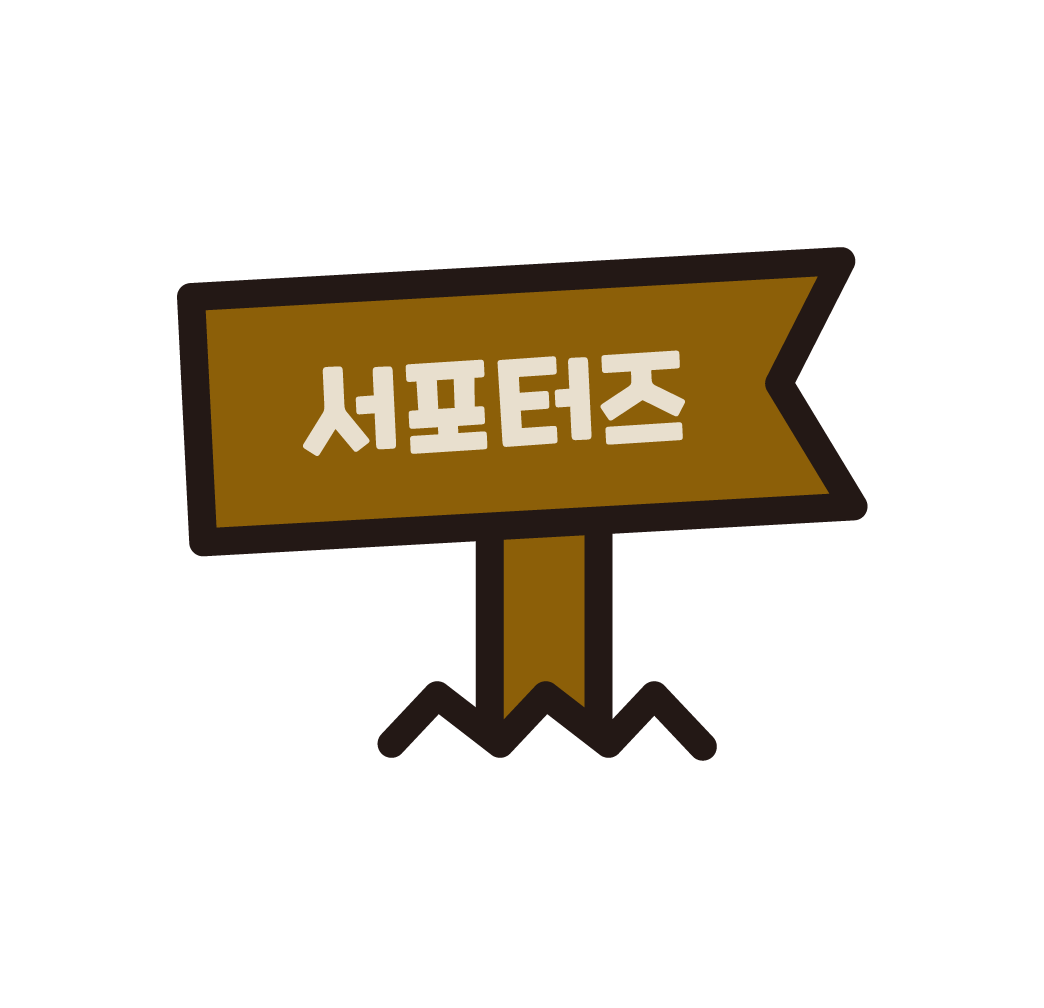
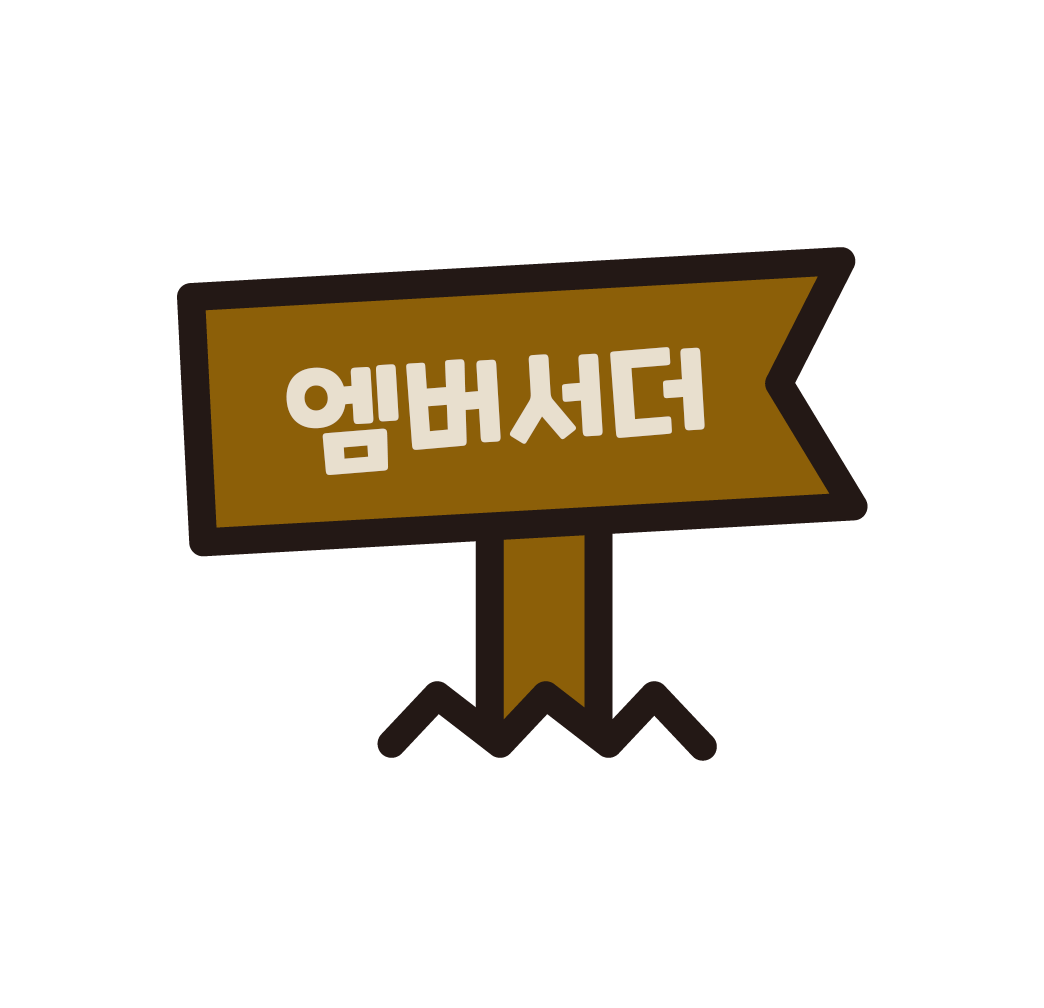
📝 Edit: 서포터즈 -> 엠버서더 링크 변경

Changed region(s): [[0.2759, 0.3383, 0.6743, 0.4921]]

diff --git a/index.html b/index.html
@@ -1,5 +1,6 @@
 <!DOCTYPE html>
 <html lang="ko">
+
 <head>
   <meta charset="utf-8">
   <meta name="viewport" content="width=device-width, initial-scale=1">
@@ -14,7 +15,8 @@
   <meta property="og:url" content="http://paullab.co.kr">
   <!-- favicon -->
   <link rel="shortcut icon" type="image/x-icon" href="favicon.ico">
-  <link rel="stylesheet" type="text/css" href="https://pro.fontawesome.com/releases/v5.10.0/css/all.css" integrity="sha384-AYmEC3Yw5cVb3ZcuHtOA93w35dYTsvhLPVnYs9eStHfGJvOvKxVfELGroGkvsg+p" crossorigin="anonymous">
+  <link rel="stylesheet" type="text/css" href="https://pro.fontawesome.com/releases/v5.10.0/css/all.css"
+    integrity="sha384-AYmEC3Yw5cVb3ZcuHtOA93w35dYTsvhLPVnYs9eStHfGJvOvKxVfELGroGkvsg+p" crossorigin="anonymous">
   <link rel="stylesheet" type="text/css" href="https://fonts.googleapis.com/css2?family=Nanum+Gothic&display=swap">
   <link rel="stylesheet" type="text/css" href="css/reset.css">
   <link rel="stylesheet" type="text/css" href="css/style.css">
@@ -166,8 +168,8 @@
         <!-- //hallabongTree -->
         <!-- supporters -->
         <div class="supporters">
-          <a href="supporters_page/home.html" target="_blank">
-            <img src="images/menu_supporters.png" alt="메뉴_서포터즈" />
+          <a href="https://ambassador.weniv.co.kr/" target="_blank">
+            <img src="images/menu_supporters.png" alt="메뉴_엠버서더" />
           </a>
         </div>
         <!-- //supporters -->
@@ -194,10 +196,12 @@
             </a>
           </div>
           <div class="naver">
-            <a href="https://blog.naver.com/paul-lab" target="_blank"><img src="images/sns_naverblog.png" alt="sns_네이버블로그" /></a>
+            <a href="https://blog.naver.com/paul-lab" target="_blank"><img src="images/sns_naverblog.png"
+                alt="sns_네이버블로그" /></a>
           </div>
           <div class="tistory">
-            <a href="https://paullab.tistory.com" target="_blank"><img src="images/sns_tistory.png" alt="sns_티스토리" /></a>
+            <a href="https://paullab.tistory.com" target="_blank"><img src="images/sns_tistory.png"
+                alt="sns_티스토리" /></a>
           </div>
         </div>
       </div>
@@ -272,7 +276,7 @@
       modal.classList.remove("on");
     }
     window.onclick = function (event) {
-      if(event.target == modal) {
+      if (event.target == modal) {
         modal.classList.remove("on");
       }
     };
@@ -282,20 +286,20 @@
     //음악 재생
     const bgm_button_play = document.querySelector('.bgm__button--play');
     const bgm_button_pause = document.querySelector('.bgm__button--pause');
-    const portraitMedia = window.matchMedia( 'only screen and (orientation: portrait)' );
+    const portraitMedia = window.matchMedia('only screen and (orientation: portrait)');
 
     const audio = new Audio();
     audio.src = "https://drive.google.com/uc?export=download&id=1xbevC0q-fNUDuoFCSLUdot0OIO81LgpE";
     audio.autoplay = true;
     audio.loop = true;
 
-    if(audio.paused) {
+    if (audio.paused) {
       bgm_button_play.classList.add('bgm__button--disactive');
       bgm_button_pause.classList.add('bgm__button--active');
     }
 
-    function musicPlay(){
-      if(audio.paused) {
+    function musicPlay() {
+      if (audio.paused) {
         audio.play();
         bgm_button_play.classList.add('bgm__button--disactive');
         bgm_button_pause.classList.add('bgm__button--active');
@@ -307,8 +311,8 @@
         bgm_button_pause.classList.remove('bgm__button--active');
       }
     }
-    window.onresize = function() {
-      if(portraitMedia.matches == true) {
+    window.onresize = function () {
+      if (portraitMedia.matches == true) {
         console.log('stop');
         musicStop();
       }
@@ -325,4 +329,5 @@
     // document.addEventListener('click', musicPlay);
   </script>
 </body>
+
 </html>
